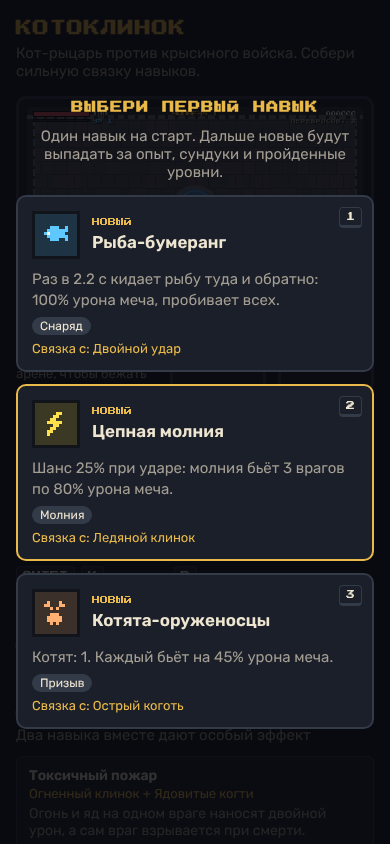
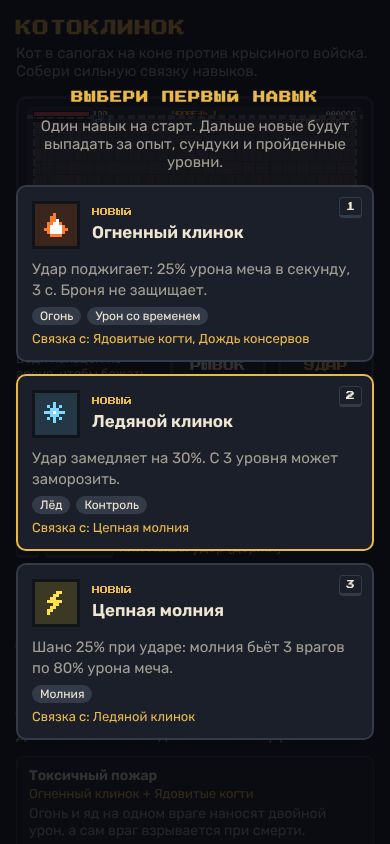
Kotoklinok: hero is now Puss in Boots on horseback
Claude-Session: https://claude.ai/code/session_01DbCCahaRksbwXVQUwM4NGi

Changed region(s): [[0.0308, 0.0616, 0.9538, 0.8934], [0.6154, 0.0616, 0.6462, 0.0924], [0.1231, 0.0616, 0.1538, 0.0924]]

diff --git a/knight/index.html b/knight/index.html
@@ -117,7 +117,7 @@ kbd {
 <div class="wrap">
   <header>
     <h1>КОТОКЛИНОК</h1>
-    <p>Кот-рыцарь против крысиного войска. Собери сильную связку навыков.</p>
+    <p>Кот в сапогах на коне против крысиного войска. Собери сильную связку навыков.</p>
   </header>
 
   <div class="screen">
@@ -204,27 +204,59 @@ function flip(src) { const c = mk(src.width, src.height), g = c.getContext('2d')
 function whiten(src) { const c = mk(src.width, src.height), g = c.getContext('2d'); g.drawImage(src, 0, 0); g.globalCompositeOperation = 'source-atop'; g.fillStyle = '#ffffff'; g.fillRect(0, 0, c.width, c.height); return c; }
 function set(rowsList, pal) { const r = rowsList.map(x => sprite(x, pal)); return { r, l: r.map(flip), w: r.map(whiten), wl: r.map(flip).map(whiten) }; }
 
-const KNIGHT_TOP = [
-  '......ss........',
-  '...o.ssss.o.....',
-  '...oohhhhoo.....',
-  '...hhhhhhhhh....',
-  '...hkkkkkkkh....',
-  '...hkgkkkgkh....',
-  '...hhhhhhhhh....',
-  '....hhhhhhh.....',
-  '..cmmmmmmmm.....',
-  '.ccmmmyymmmm....',
-  '.ccmmmyymmmm....',
-  '.ccmmmmmmmmm....',
-  '..cmmmmmmmm.....',
+// Puss in Boots on horseback: the cat layer is painted over the horse layer
+const CAT_RIDER = [
+  '......FF................',
+  '.....FFF.HHHH...........',
+  '....FF..HHHHHH..........',
+  '...bbbbbbbbbbbbb........',
+  '.......oooooooo.........',
+  '.......oogkoogko........',
+  '.......ooooowpwo........',
+  '........ooowwww.........',
+  '........sssssss.........',
+  '.......osssssssoo.......',
+  '.......eeeeyeeee........',
+  '........sssssss.........',
+  '........rRRr............',
+  '.........RR.............',
+  '.........RR.............',
+  '.........RRR............',
 ];
-const KNIGHT_PAL = { s: '#e04f5f', o: '#f39237', h: '#c9cfdc', k: '#2a2f3a', g: '#8dff6a', c: '#3f6fd1', m: '#9aa3b5', y: '#e9b949', l: '#4a4f5c' };
-const KNIGHT = set([
-  KNIGHT_TOP.concat(['...ll....ll.....', '...ll....ll.....']),
-  KNIGHT_TOP.concat(['..ll......ll....', '..l........l....']),
-  KNIGHT_TOP.concat(['....ll..ll......', '.....l..l.......']),
-], KNIGHT_PAL);
+const HORSE_TOP = [
+  '........................',
+  '........................',
+  '........................',
+  '........................',
+  '........................',
+  '...............mn.......',
+  '...............mnn......',
+  '..............mnnxn.....',
+  '..............mnnnnnn...',
+  '.............mnnn.nnNN..',
+  '.............mnnn.......',
+  '......qqqqqqmnnnn.......',
+  '..nnnnqqqqqqnnnnnn......',
+  '.nnnnnqqqqqqnnnnnn......',
+  'mnnnnnnnnnnnnnnnnn......',
+  'mnnnnnnnnnnnnnnnnN......',
+  'm.nnnnnnnnnnnnnnN.......',
+];
+const HORSE_LEGS = [
+  ['...nnN.........nnN......', '...nn..........nn.......', '...nn..........nn.......', '...hh..........hh.......'],
+  ['....nnN......nnN........', '.....nn.....nn..........', '......nn...nn...........', '......hh...hh...........'],
+  ['...nnN.........nnN......', '..nn.............nn.....', '.nn...............nn....', '.hh...............hh....'],
+];
+const KNIGHT_PAL = {
+  F: '#f4efe0', H: '#3a2418', b: '#2a1a10', o: '#f39237', g: '#c8e65a', k: '#111', w: '#fff1dc', p: '#ff8fb1',
+  s: '#e8d6a8', e: '#5a3a1a', y: '#e9b949', R: '#d0303a', r: '#8a1f28',
+  n: '#8a5a34', N: '#6a4224', m: '#2a1a10', x: '#111', h: '#2a1a10', q: '#b8302e',
+};
+function riderRows(legs) {
+  const horse = HORSE_TOP.concat(legs);
+  return horse.map((row, y) => [...row].map((ch, x) => { const c = (CAT_RIDER[y] || '')[x]; return c && c !== '.' ? c : ch; }).join(''));
+}
+const KNIGHT = set(HORSE_LEGS.map(riderRows), KNIGHT_PAL);
 
 const RAT_TOP = ['........pp..', '......gpggg.', '..ggggggkggg', '.ggggggggggp', 'tgggggggggg.'];
 const RAT_ROWS = [RAT_TOP.concat(['t..l...l....', 'tt..........']), RAT_TOP.concat(['t...l...l...', 'tt..........'])];
@@ -431,7 +463,7 @@ function recompute() {
 }
 
 function newPlayer() {
-  return { x: 200, y: 125, r: 6, vx: 0, vy: 0, face: 1, aim: 0, hp: 100, inv: 0, cd: 0, swingT: 0, swingA: 0, swingCrit: false,
+  return { x: 200, y: 125, r: 8, vx: 0, vy: 0, face: 1, aim: 0, hp: 100, inv: 0, cd: 0, swingT: 0, swingA: 0, swingCrit: false,
     dashT: 0, dashCd: 0, dvx: 0, dvy: 0, dashHit: new Set(), shield: true, shieldT: 0, swings: 0, shadow: 0, anim: 0, doubleT: 0,
     orbA: 0, boomT: 60, meteorT: 120, auraT: 0, moving: false };
 }
@@ -1239,18 +1271,18 @@ function drawKnight() {
   const blink = P.inv > 0 && Math.floor(P.inv / 3) % 2;
   const frame = P.moving ? 1 + Math.floor(P.anim) % 2 : 0;
   const img = P.face > 0 ? KNIGHT.r[frame] : KNIGHT.l[frame];
-  const x = Math.round(P.x - 8), y = Math.round(P.y - 11);
-  cx.fillStyle = 'rgba(0,0,0,0.35)'; cx.beginPath(); cx.ellipse(P.x, P.y + 5, 7, 3, 0, 0, TAU); cx.fill();
-  // sword
-  const a = P.swingT > 0 ? P.swingA + (P.swingT - 5) * 0.22 * (Math.cos(P.swingA) >= 0 ? 1 : -1) : (P.face > 0 ? -0.9 : Math.PI + 0.9);
-  const sl = 10 + st.range * 0.25;
-  cx.strokeStyle = '#e8ecf5'; cx.lineWidth = 2;
-  cx.beginPath(); cx.moveTo(P.x + Math.cos(a) * 4, P.y - 2 + Math.sin(a) * 4); cx.lineTo(P.x + Math.cos(a) * sl, P.y - 2 + Math.sin(a) * sl); cx.stroke();
-  cx.strokeStyle = '#e9b949'; cx.lineWidth = 2;
-  cx.beginPath(); cx.moveTo(P.x + Math.cos(a + 1.57) * 3 + Math.cos(a) * 4, P.y - 2 + Math.sin(a + 1.57) * 3 + Math.sin(a) * 4); cx.lineTo(P.x - Math.cos(a + 1.57) * 3 + Math.cos(a) * 4, P.y - 2 - Math.sin(a + 1.57) * 3 + Math.sin(a) * 4); cx.stroke();
-  cx.lineWidth = 1;
+  const x = Math.round(P.x - 12), y = Math.round(P.y - 15);
+  cx.fillStyle = 'rgba(0,0,0,0.35)'; cx.beginPath(); cx.ellipse(P.x, P.y + 5, 11, 3, 0, 0, TAU); cx.fill();
   if (!blink) cx.drawImage(img, x, y);
-  if (lv('yarnshield') && P.shield) { cx.strokeStyle = 'rgba(255,143,208,0.55)'; cx.beginPath(); cx.arc(P.x, P.y - 3, 12, 0, TAU); cx.stroke(); }
+  // rapier in the cat's paw
+  const hx = P.x + 1 * P.face, hy = P.y - 7;
+  const a = P.swingT > 0 ? P.swingA + (P.swingT - 5) * 0.22 * (Math.cos(P.swingA) >= 0 ? 1 : -1) : (P.face > 0 ? -0.7 : Math.PI + 0.7);
+  const sl = 12 + st.range * 0.3;
+  cx.strokeStyle = '#e8ecf5'; cx.lineWidth = 1;
+  cx.beginPath(); cx.moveTo(hx + Math.cos(a) * 2, hy + Math.sin(a) * 2); cx.lineTo(hx + Math.cos(a) * sl, hy + Math.sin(a) * sl); cx.stroke();
+  cx.fillStyle = '#e9b949'; cx.fillRect(Math.round(hx + Math.cos(a) * 2) - 1, Math.round(hy + Math.sin(a) * 2) - 1, 2, 2);
+  cx.lineWidth = 1;
+  if (lv('yarnshield') && P.shield) { cx.strokeStyle = 'rgba(255,143,208,0.55)'; cx.beginPath(); cx.arc(P.x, P.y - 4, 16, 0, TAU); cx.stroke(); }
 }
 
 function draw() {
@@ -1344,7 +1376,7 @@ function draw() {
   }
   for (const r of rings) { cx.strokeStyle = r.color; cx.globalAlpha = r.t / 16; cx.lineWidth = 2; cx.beginPath(); cx.arc(r.x, r.y, r.r, 0, TAU); cx.stroke(); cx.lineWidth = 1; cx.globalAlpha = 1; }
   for (const p of fx) {
-    if (p.ghost) { cx.globalAlpha = p.t / 24; cx.drawImage(p.ghost > 0 ? KNIGHT.w[0] : KNIGHT.wl[0], Math.round(p.x - 8), Math.round(p.y - 11)); cx.globalAlpha = 1; continue; }
+    if (p.ghost) { cx.globalAlpha = p.t / 24; cx.drawImage(p.ghost > 0 ? KNIGHT.w[0] : KNIGHT.wl[0], Math.round(p.x - 12), Math.round(p.y - 15)); cx.globalAlpha = 1; continue; }
     cx.fillStyle = p.color; cx.fillRect(Math.round(p.x), Math.round(p.y), 2, 2);
   }
   for (const n of nums) {
